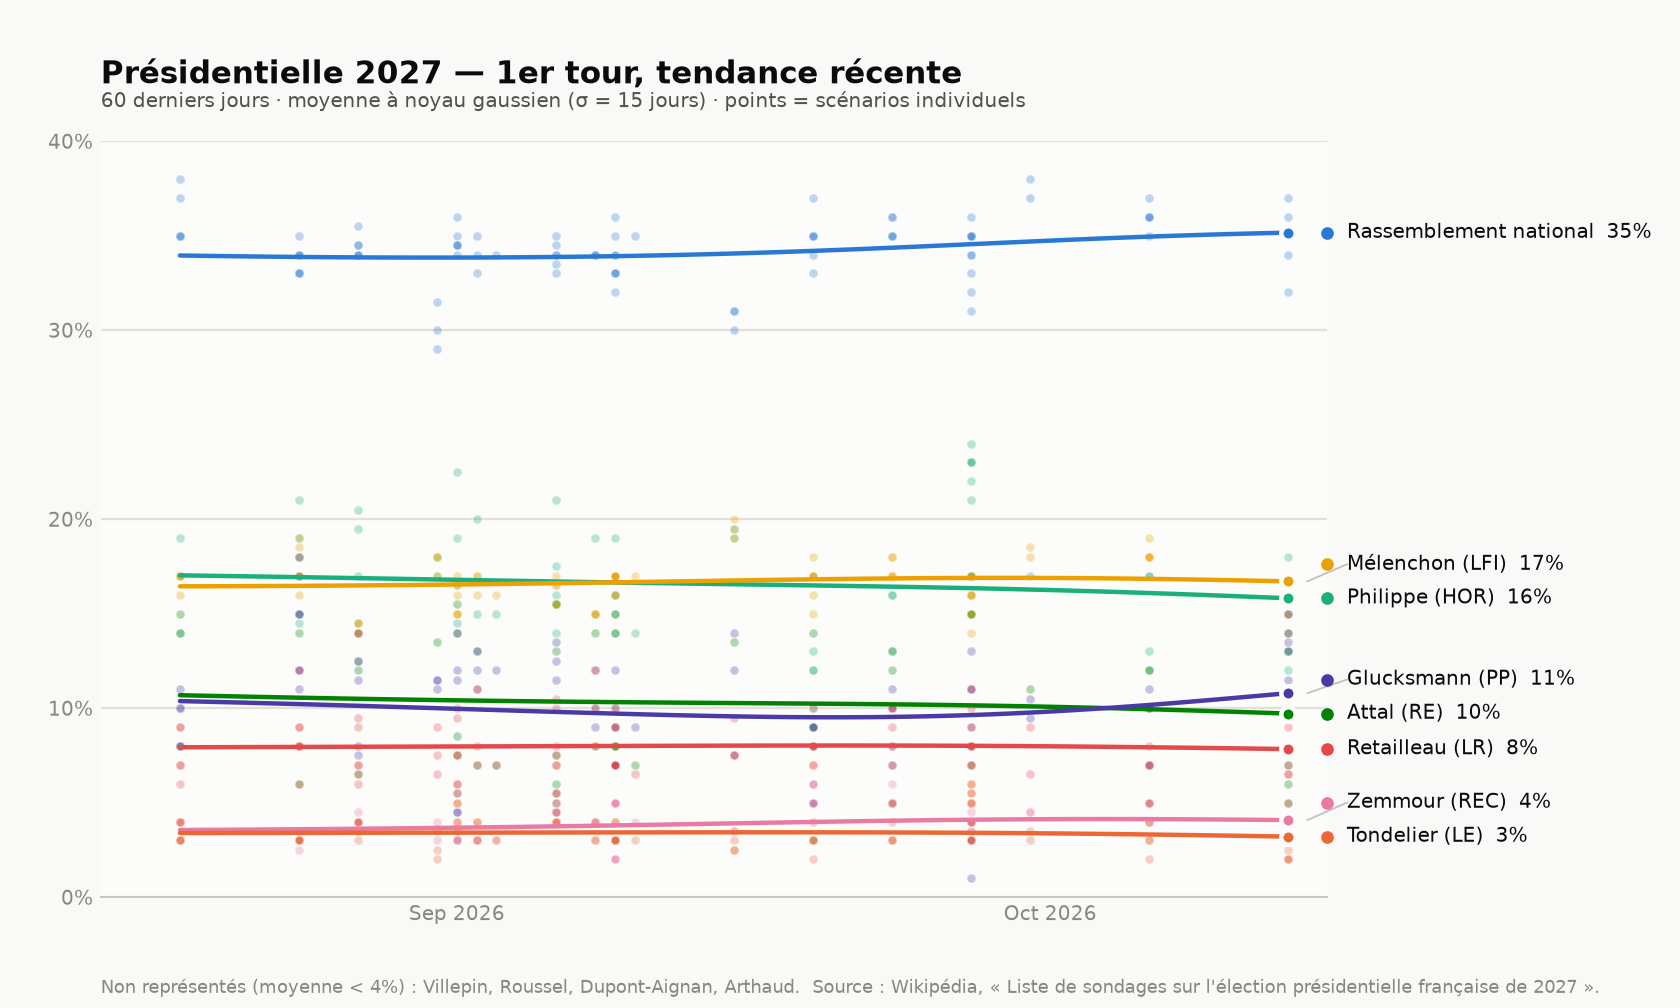
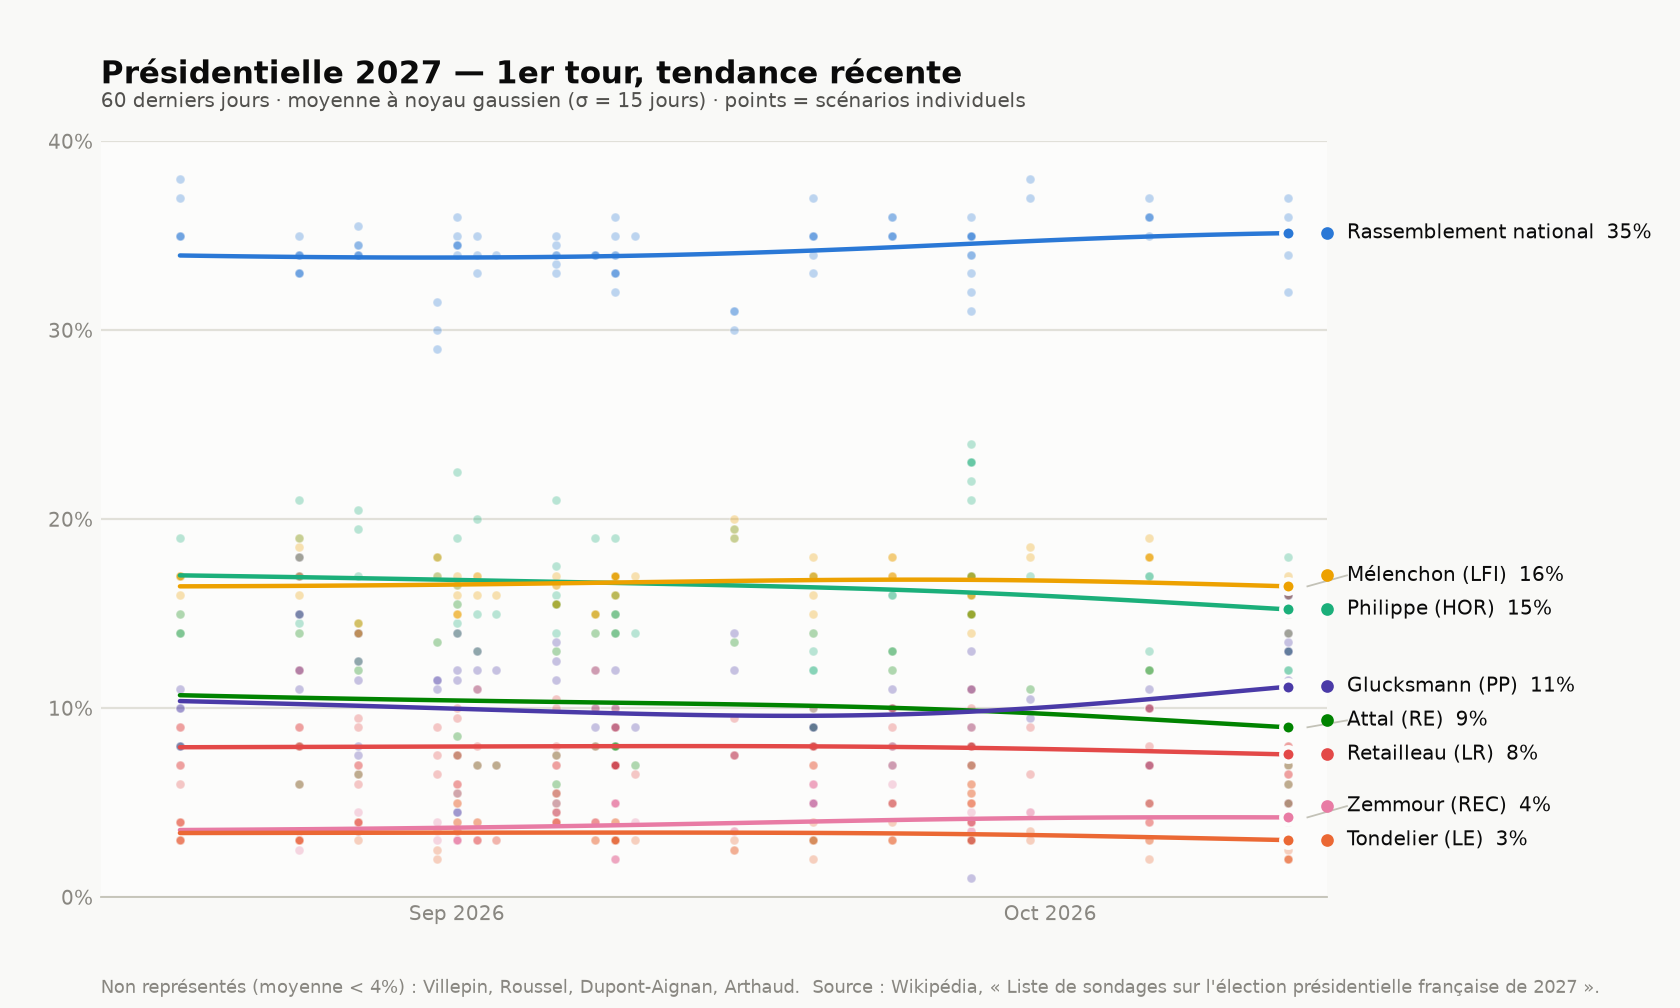
Add OpinionWay CNews 13-14 October 2026 poll; tag same-key polls -1/-2
Two distinct OpinionWay polls share fieldwork dates (13-14 octobre) and
sample (1043): the Présitrack 2027 wave 3 for Les Echos/Radio Classique
(3 scenarios, already committed) and a new one for CNews (1 scenario,
commission-des-sondages notice 10319). pollster/date/sample is the poll
key, and visualize_polls.py averages every row sharing it, so adding the
CNews poll untagged would have merged the two. The 2026-10-17 run stopped
on this with NEEDS ATTENTION.

Per the owner: tag such polls in the key. parse_polls.py's
tag_colliding_polls renames them OpinionWay-1 / OpinionWay-2, numbered
oldest-listed first within a table, so a fresh parse reproduces the CSV.
Présitrack is OpinionWay-1, CNews is OpinionWay-2 (row sums 100 and
100.5). The pollster chart groups by the untagged institute name and
shows both same-date polls. No second-round change: those three
13-14 octobre rows come from the CNews poll only, so there is no
collision there.

diff --git a/parse_polls.py b/parse_polls.py
@@ -1,4 +1,5 @@
 import re, csv, sys, unicodedata
+from collections import defaultdict
 
 # Canonical CSV column order, and the registry of candidates we already know
 # about. This is NOT a positional map onto any one wikitable: each sub-table's
@@ -296,8 +297,30 @@ def parse_rows(text):
             # which is what the parser did for every table before it learned
             # to read headers.
             columns, n_meta = CANDIDATES, 3
-        polls.extend(parse_table(blocks, columns, n_meta, known))
+        polls.extend(tag_colliding_polls(parse_table(blocks, columns, n_meta, known)))
     return polls, out_columns
+
+def tag_colliding_polls(polls):
+    """Give two distinct polls that share pollster, date and sample their own
+    pollster names, `OpinionWay-1` and `OpinionWay-2`, numbered from the
+    bottom of the table up (oldest listed first, since tables run newest at
+    the top). `(pollster, date, sample)` is what identifies one poll
+    downstream -- the visualizer averages every row sharing it -- so without a
+    tag two unrelated polls fielded on the same days would be averaged into
+    one. Works per table: the dates carry no year, and a sub-table is one
+    period. Rows of a poll with no twin keep the bare pollster name."""
+    groups = defaultdict(list)
+    for row in polls:
+        key = (row['pollster'], row['date'], row['sample'])
+        if row['_poll'] not in groups[key]:
+            groups[key].append(row['_poll'])
+    for row in polls:
+        ids = groups[(row['pollster'], row['date'], row['sample'])]
+        if len(ids) > 1:
+            row['pollster'] = f"{row['pollster']}-{len(ids) - ids.index(row['_poll'])}"
+    for row in polls:
+        del row['_poll']
+    return polls
 
 def report_column_changes(parsed, seen):
     """Say on stderr when a table's column set is not the canonical one. A
@@ -323,6 +346,7 @@ def parse_table(blocks, columns, n_meta, known):
     pollster = date = sample = None
     remaining = 0
     scenario_idx = 0
+    poll_idx = 0
 
     for lines in blocks:
         if any(l.lstrip().startswith('!') for l in lines):
@@ -342,6 +366,7 @@ def parse_table(blocks, columns, n_meta, known):
             r = get_attr_int(cells[0], 'rowspan') or 1
             remaining = r
             scenario_idx = 0
+            poll_idx += 1
             value_cells = cells[n_meta:]
         else:
             value_cells = cells
@@ -349,7 +374,8 @@ def parse_table(blocks, columns, n_meta, known):
         scenario_idx += 1
         remaining -= 1
 
-        row = {'pollster': pollster, 'date': date, 'sample': sample, 'scenario': scenario_idx}
+        row = {'pollster': pollster, 'date': date, 'sample': sample, 'scenario': scenario_idx,
+               '_poll': poll_idx}
         notes = []
         ci = 0
         for raw_cell in value_cells:

diff --git a/visualize_polls.py b/visualize_polls.py
@@ -13,6 +13,7 @@ Usage:
 import argparse
 import csv
 import math
+import re
 import sys
 from collections import defaultdict
 from datetime import date, timedelta
@@ -258,10 +259,21 @@ def dodge(values, gap=1.2, step=0.16):
 
 
 def plot_pollsters(records, theme, dark, sigma, out):
-    """One row per pollster (their latest poll), plus a smoothed-average row."""
-    latest = {}
-    for rec in records:
-        latest[rec["pollster"]] = rec  # records sorted ascending by date
+    """One row per pollster (their latest poll), plus a smoothed-average row.
+
+    Two distinct polls an institute fielded on the same days are tagged
+    `OpinionWay-1` / `OpinionWay-2` by the parser; they are grouped under the
+    bare institute name here, and both get a row when they are its latest.
+    """
+    by_institute = defaultdict(list)
+    for rec in records:  # sorted ascending by date
+        institute = re.sub(r"-\d+$", "", rec["pollster"])
+        polls = by_institute[institute]
+        if polls and polls[-1]["date"] != rec["date"]:
+            polls.clear()
+        polls.append(rec)
+    latest = {rec["pollster"]: rec
+              for polls in by_institute.values() for rec in polls}
 
     end_date = max(rec["date"] for rec in records)
     poll_means = defaultdict(list)

diff --git a/README.md b/README.md
@@ -61,7 +61,7 @@ python3 parse_polls.py /tmp/frelec_raw.wiki polls_2027_second_round.csv --second
 First-round voting-intention polls, January–October 2026, scraped from the French
 Wikipedia article
 ["Liste de sondages sur l'élection présidentielle française de 2027"](https://fr.wikipedia.org/wiki/Liste_de_sondages_sur_l%27%C3%A9lection_pr%C3%A9sidentielle_fran%C3%A7aise_de_2027)
-(pulled 2026-10-16).
+(pulled 2026-10-17).
 
 Starting with the 7–8 July 2026 polls (Wikipedia's "Second semestre 2026"
 sub-table), the table switched the RN column from a hypothetical "candidate"
@@ -84,7 +84,12 @@ Villepin included, with every name and share listed in `notes`.
 
 Each poll is published with several "scenarios" (different hypothetical candidate
 line-ups, e.g. Attal vs. Philippe running, or Le Pen vs. Bardella as the RN
-candidate) — one CSV row per scenario, grouped by `pollster`/`date`/`sample`.
+candidate) — one CSV row per scenario, grouped by `pollster`/`date`/`sample`. When one
+institute publishes two distinct polls with the same fieldwork dates and
+sample size (OpinionWay's Présitrack for Les Echos and its CNews poll, both
+13–14 October, n=1043), the parser tags them `OpinionWay-1`, `OpinionWay-2`,
+… numbered oldest-listed first, so they stay two polls instead of being
+averaged into one.
 Values are vote-share percentages; blank means that candidate wasn't tested in
 that scenario. The `notes` column records scenario-specific substitutions
 (e.g. Hollande or Faure standing in for the PS line, Ruffin, Knafo, Darmanin,
@@ -92,9 +97,11 @@ Lecornu, etc.). A share Wikipedia reports only as an upper bound (e.g. `<1`)
 is encoded as the midpoint of that bound (`0.5`), with the original reading
 kept in `notes`.
 
-Latest poll: OpinionWay (n=1043, 13–14 October) — RN (Le Pen) 35–37%,
-Mélenchon 14–15%, Philippe 12–15%, Attal 7–11%, Glucksmann 13–16%,
-Retailleau 7–9%.
+Latest polls: OpinionWay-1 (Présitrack for Les Echos/Radio Classique, n=1043,
+13–14 October) — RN (Le Pen) 35–37%, Mélenchon 14–15%, Philippe 12–15%,
+Attal 7–11%, Glucksmann 13–16%, Retailleau 7–9%; and OpinionWay-2 (CNews,
+same dates and sample, one scenario) — RN (Le Pen) 35%, Mélenchon 15%,
+Glucksmann 13%, Philippe 12%, Retailleau 6%, Attal 5%.
 
 Caveat (per Wikipedia, citing Le Monde): polls taken a year-plus before a French
 presidential election have historically been poor predictors — in 2022 LFI

diff --git a/CLAUDE.md b/CLAUDE.md
@@ -87,6 +87,13 @@ and output rows:
   (Ruffin) also stays put, and so does a stacked multi-name cell
   (`<hr>`-separated, note `Name (x); Name (y)`), even when one of the names
   is Villepin — its value is the sum over all of them.
+- `tag_colliding_polls` handles two distinct polls by one institute that
+  share `pollster`/`date`/`sample` (OpinionWay's Présitrack and CNews polls,
+  both 13–14 October 2026, n=1043). That triple is the poll key downstream —
+  `visualize_polls.py` averages every row carrying it — so the parser renames
+  them `OpinionWay-1`, `OpinionWay-2`, numbered from the bottom of the table
+  up (oldest listed first), per table. The pollster chart strips the tag to
+  group by institute and shows every poll on the institute's latest date.
 - A column set that differs from `CANDIDATES` is reported on stderr
   (`report_column_changes`). The parse handles it, but a candidate entering or
   leaving the race should still be audible.
